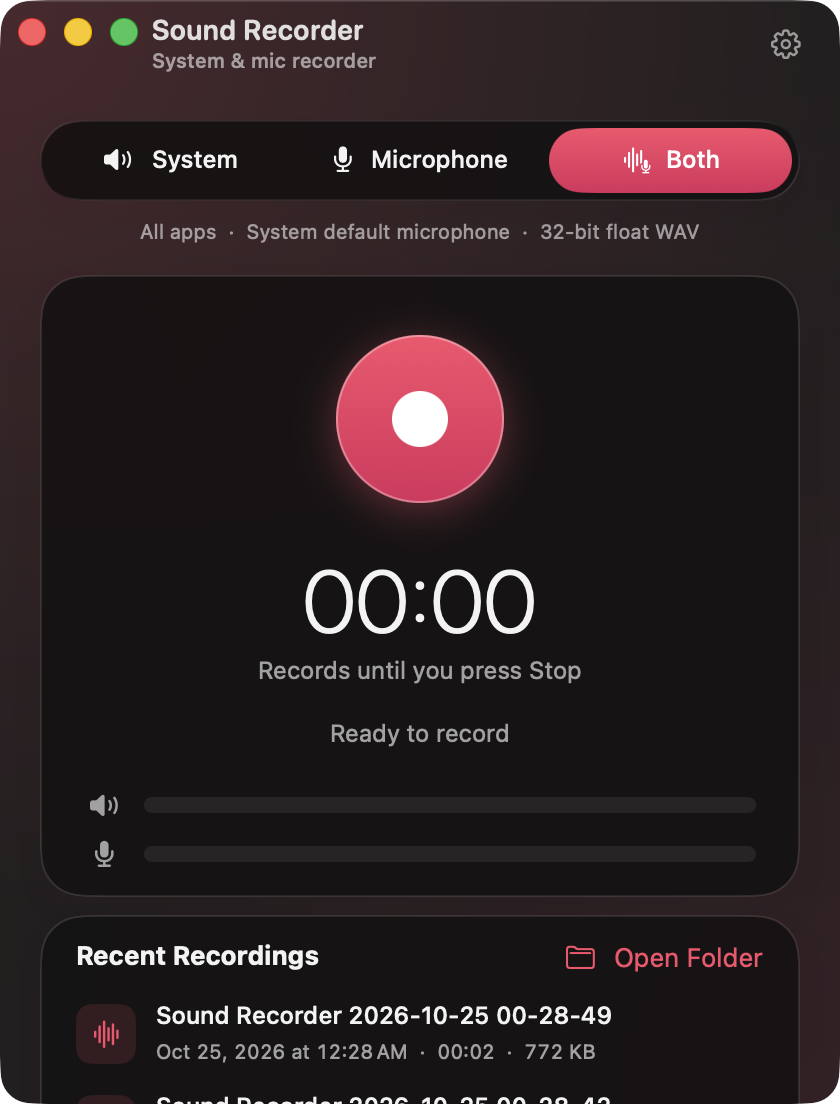
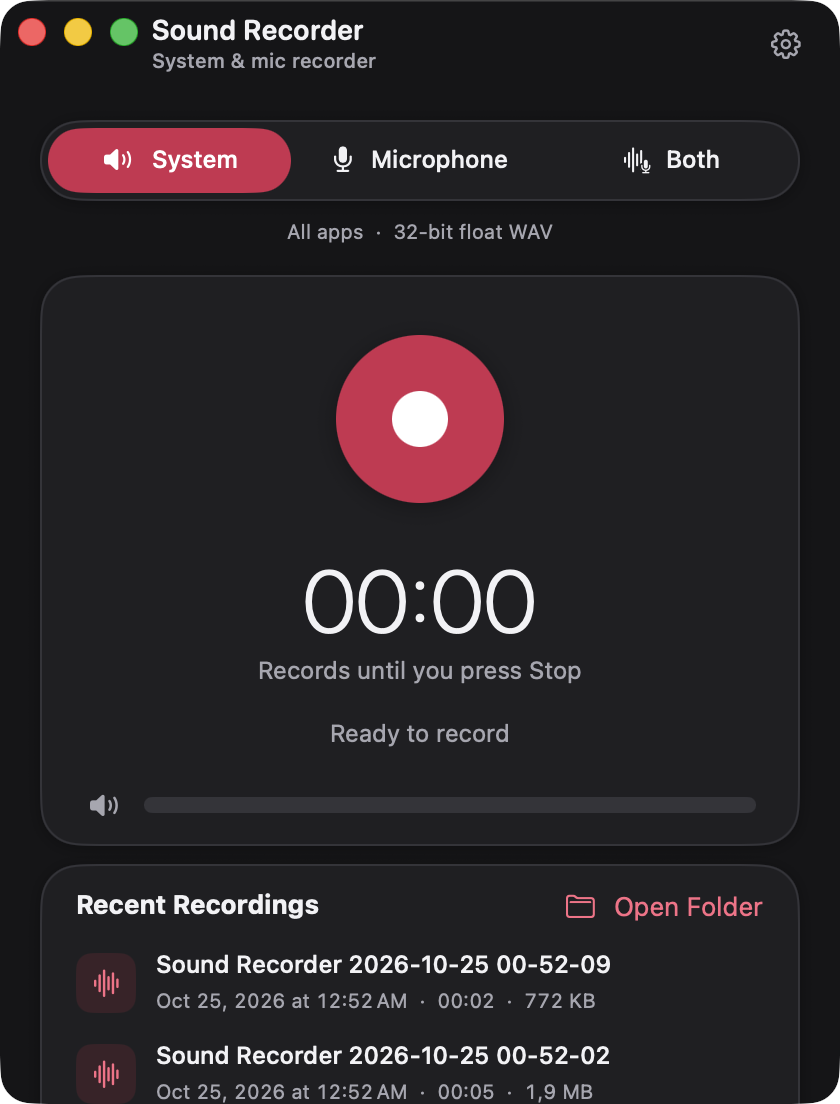
feat(appearance): add persistent themes and opaque surfaces

diff --git a/Sources/App/Style/Theme.swift b/Sources/App/Style/Theme.swift
@@ -1,17 +1,41 @@
-// The Sound Recorder look in one place: accent colors, corner radii, spacing, motion,
-// the glass card and the window backdrop. Views use these tokens instead of literals.
+// The Sound Recorder look in one place: semantic colours with light and dark values, corner radii,
+// spacing, motion and the opaque card. Views use these tokens and never literal colours.
+// Text colours meet WCAG AA on every surface they are used on (body text ≥ 4.5:1, controls ≥ 3:1).
 
+import AppKit
 import SwiftUI
 
 enum Theme {
-    static let brand = Color(red: 0.98, green: 0.30, blue: 0.42)
-    static let brandDeep = Color(red: 0.86, green: 0.16, blue: 0.36)
-    static let brandGradient = LinearGradient(colors: [brand, brandDeep], startPoint: .top, endPoint: .bottom)
-    static let meterGradient = LinearGradient(colors: [.green, .yellow, .orange, brand], startPoint: .leading, endPoint: .trailing)
-    static let warning = Color.orange
+    // Surfaces, from back to front.
+    static let background = Color(light: 0xF4F4F6, dark: 0x151517)
+    static let surface = Color(light: 0xFFFFFF, dark: 0x1F1F22)
+    static let surfaceRaised = Color(light: 0xEEEEF2, dark: 0x2A2A2E)
+    static let border = Color(light: 0xDEDEE4, dark: 0x34343A)
+    static let shadow = Color(light: 0x000000, dark: 0x000000, lightAlpha: 0.06, darkAlpha: 0.30)
+
+    // Text.
+    static let textPrimary = Color(light: 0x1C1C1F, dark: 0xF2F2F5)
+    static let textSecondary = Color(light: 0x5C5C66, dark: 0xA6A6B0)
+
+    // Accent: `accent` for text and icons, `accentFill` behind white (`onAccent`) glyphs.
+    static let accent = Color(light: 0xC42448, dark: 0xFF6B86)
+    static let accentFill = Color(light: 0xC42448, dark: 0xCF2B50)
+    static let accentSoft = Color(light: 0xFBE4E9, dark: 0x3A2228)
+    static let onAccent = Color(light: 0xFFFFFF, dark: 0xFFFFFF)
+
+    // Status.
+    static let warning = Color(light: 0x9A5800, dark: 0xFFB547)
+    static let danger = Color(light: 0xC62828, dark: 0xFF6B6B)
+
+    // Level meter: track, then low → mid → high.
+    static let meterTrack = Color(light: 0xE6E6EB, dark: 0x34343A)
+    static let meterLow = Color(light: 0x23863F, dark: 0x3FCF6E)
+    static let meterMid = Color(light: 0xB07800, dark: 0xF0B429)
+    static let meterHigh = Color(light: 0xC42448, dark: 0xFF6B86)
+    static let meterGradient = LinearGradient(colors: [meterLow, meterMid, meterHigh], startPoint: .leading, endPoint: .trailing)
 
     enum Radius {
-        static let card: CGFloat = 22
+        static let card: CGFloat = 20
         static let notice: CGFloat = 14
         static let row: CGFloat = 10
         static let badge: CGFloat = 8
@@ -24,38 +48,41 @@ enum Theme {
         static let scrollerGutter: CGFloat = 10 // room for the overlay scroller beside list rows
     }
 
+    /// Short, consistent curves; views apply them through `calmAnimation`, which honours Reduce Motion.
     enum Motion {
-        static let hover = Animation.easeOut(duration: 0.12)
-        static let notice = Animation.easeOut(duration: 0.2)
-        static let select = Animation.spring(duration: 0.3)
-        static let press = Animation.spring(duration: 0.2)
+        static let standard = Animation.easeInOut(duration: 0.2)
+        static let quick = Animation.easeOut(duration: 0.15)
     }
 }
 
 extension Color {
-    static let brand = Theme.brand
-    static let brandDeep = Theme.brandDeep
+    /// A colour that follows the window's light or dark appearance, from 0xRRGGBB values.
+    init(light: UInt32, dark: UInt32, lightAlpha: CGFloat = 1, darkAlpha: CGFloat = 1) {
+        self.init(nsColor: NSColor(name: nil) { appearance in
+            let isDark = appearance.bestMatch(from: [.aqua, .darkAqua]) == .darkAqua
+            let hex = isDark ? dark : light
+            return NSColor(srgbRed: CGFloat((hex >> 16) & 0xFF) / 255, green: CGFloat((hex >> 8) & 0xFF) / 255,
+                           blue: CGFloat(hex & 0xFF) / 255, alpha: isDark ? darkAlpha : lightAlpha)
+        })
+    }
 }
 
 extension View {
-    /// Liquid Glass on macOS 26, a material card before that.
-    @ViewBuilder func card(cornerRadius: CGFloat = Theme.Radius.card) -> some View {
-        if #available(macOS 26.0, *) {
-            glassEffect(.regular, in: RoundedRectangle(cornerRadius: cornerRadius, style: .continuous))
-        } else {
-            background(.regularMaterial, in: RoundedRectangle(cornerRadius: cornerRadius, style: .continuous))
+    /// An opaque card: surface fill, 1 px border and a very light shadow on the shape only
+    /// (not on the content, so text and icons inside cast no shadows of their own).
+    func card(cornerRadius: CGFloat = Theme.Radius.card) -> some View {
+        let shape = RoundedRectangle(cornerRadius: cornerRadius, style: .continuous)
+        return background {
+            shape.fill(Theme.surface)
+                .shadow(color: Theme.shadow, radius: 4, y: 1)
+                .overlay(shape.strokeBorder(Theme.border, lineWidth: 1))
         }
     }
 }
 
-/// Soft accent glow behind the glass, adapting to light and dark mode.
+/// Solid window background.
 struct Backdrop: View {
     var body: some View {
-        ZStack {
-            Color(nsColor: .windowBackgroundColor)
-            RadialGradient(colors: [Theme.brand.opacity(0.20), .clear], center: .topLeading, startRadius: 0, endRadius: 460)
-            RadialGradient(colors: [Theme.brandDeep.opacity(0.12), .clear], center: .bottomTrailing, startRadius: 0, endRadius: 520)
-        }
-        .ignoresSafeArea()
+        Theme.background.ignoresSafeArea()
     }
 }

diff --git a/Sources/App/Main/RecordButton.swift b/Sources/App/Main/RecordButton.swift
@@ -1,5 +1,6 @@
 // Large circular record / stop button. While recording, a ring pulses outward; it is driven by
-// the 15 Hz recording tick through LivePulse, so nothing animates at display rate.
+// the 15 Hz recording tick through LivePulse, so nothing animates at display rate, and it is not
+// shown at all under Reduce Motion.
 
 import SwiftUI
 
@@ -15,9 +16,8 @@ struct RecordButton: View {
             ZStack {
                 if recording { PulseRing(pulse: pulse) }
                 Circle()
-                    .fill(Theme.brandGradient)
-                    .shadow(color: Theme.brand.opacity(recording ? 0.55 : 0.35), radius: recording ? 18 : 10, y: 4)
-                Circle().strokeBorder(.white.opacity(0.35), lineWidth: 1)
+                    .fill(Theme.accentFill)
+                    .shadow(color: Theme.shadow, radius: 6, y: 2)
                 glyph
             }
             .frame(width: 84, height: 84)
@@ -35,22 +35,25 @@ struct RecordButton: View {
     @ViewBuilder private var glyph: some View {
         switch state {
         case .starting, .stopping:
-            ProgressView().controlSize(.small).tint(.white)
+            ProgressView().controlSize(.small).tint(Theme.onAccent)
         case .recording:
-            RoundedRectangle(cornerRadius: 6, style: .continuous).fill(.white).frame(width: 26, height: 26)
+            RoundedRectangle(cornerRadius: 6, style: .continuous).fill(Theme.onAccent).frame(width: 26, height: 26)
         case .idle:
-            Circle().fill(.white).frame(width: 28, height: 28)
+            Circle().fill(Theme.onAccent).frame(width: 28, height: 28)
         }
     }
 }
 
 private struct PulseRing: View {
     @ObservedObject var pulse: LivePulse
+    @Environment(\.accessibilityReduceMotion) private var reduceMotion
 
     var body: some View {
         let phase = pulse.phase
-        Circle()
-            .stroke(Theme.brand.opacity(0.55 * (1 - phase)), lineWidth: 3)
-            .scaleEffect(1 + 0.32 * phase)
+        if !reduceMotion {
+            Circle()
+                .stroke(Theme.accent.opacity(0.5 * (1 - phase)), lineWidth: 2)
+                .scaleEffect(1 + 0.3 * phase)
+        }
     }
 }

diff --git a/Sources/App/Model/RecorderModel.swift b/Sources/App/Model/RecorderModel.swift
@@ -12,6 +12,9 @@ final class RecorderModel: ObservableObject {
     @Published var language: AppLanguage {
         didSet { defaults.set(language.rawValue, forKey: "language"); t = Strings(language) }
     }
+    @Published var appearance: AppAppearance {
+        didSet { defaults.set(appearance.rawValue, forKey: "appearance"); appearance.apply() }
+    }
     @Published var source: CaptureSource { didSet { defaults.set(source.rawValue, forKey: "source") } }
     @Published var format: SampleFormat { didSet { defaults.set(format.rawValue, forKey: "format") } }
     @Published var limitEnabled: Bool { didSet { defaults.set(limitEnabled, forKey: "limitEnabled") } }
@@ -55,6 +58,7 @@ final class RecorderModel: ObservableObject {
         let language = AppLanguage(rawValue: defaults.string(forKey: "language") ?? "") ?? .en
         self.language = language
         t = Strings(language)
+        appearance = AppAppearance(rawValue: defaults.string(forKey: "appearance") ?? "") ?? .system
         source = CaptureSource(rawValue: defaults.string(forKey: "source") ?? "") ?? .system
         format = SampleFormat(rawValue: defaults.string(forKey: "format") ?? "") ?? .float32
         limitEnabled = defaults.bool(forKey: "limitEnabled")
@@ -192,7 +196,10 @@ final class RecorderModel: ObservableObject {
         // Instant attack, smooth release.
         levels.set(Levels(system: max(Self.meterValue(peaks.system), old.system * 0.75),
                           mic: max(Self.meterValue(peaks.mic), old.mic * 0.75)))
-        pulse.set(elapsed.truncatingRemainder(dividingBy: 1.6) / 1.6)
+        // The pulsing ring is hidden under Reduce Motion; then there is nothing to drive.
+        if !NSWorkspace.shared.accessibilityDisplayShouldReduceMotion {
+            pulse.set(elapsed.truncatingRemainder(dividingBy: 1.6) / 1.6)
+        }
         if let limit, elapsed >= limit + 0.3 { Task { await stop() } }
     }
 

diff --git a/Sources/App/Main/RecordingRow.swift b/Sources/App/Main/RecordingRow.swift
@@ -13,12 +13,12 @@ struct RecordingRow: View {
         HStack(spacing: 10) {
             Image(systemName: "waveform")
                 .font(.system(size: 13, weight: .semibold))
-                .foregroundStyle(Theme.brand)
+                .foregroundStyle(Theme.accent)
                 .frame(width: 30, height: 30)
-                .background(Theme.brand.opacity(0.14), in: RoundedRectangle(cornerRadius: Theme.Radius.badge, style: .continuous))
+                .background(Theme.accentSoft, in: RoundedRectangle(cornerRadius: Theme.Radius.badge, style: .continuous))
             VStack(alignment: .leading, spacing: 2) {
                 Text(recording.name).font(.callout.weight(.medium)).lineLimit(1).truncationMode(.middle)
-                Text(details).font(.caption.monospacedDigit()).foregroundStyle(.secondary).lineLimit(1)
+                Text(details).font(.caption.monospacedDigit()).foregroundStyle(Theme.textSecondary).lineLimit(1)
             }
             Spacer(minLength: 4)
             if hovering {
@@ -32,9 +32,9 @@ struct RecordingRow: View {
         }
         .padding(.horizontal, 6)
         .padding(.vertical, 5)
-        .background(Color.primary.opacity(hovering ? 0.06 : 0), in: RoundedRectangle(cornerRadius: Theme.Radius.row, style: .continuous))
+        .background(hovering ? Theme.surfaceRaised : Color.clear, in: RoundedRectangle(cornerRadius: Theme.Radius.row, style: .continuous))
         .contentShape(Rectangle())
-        .onHover { inside in withAnimation(Theme.Motion.hover) { hovering = inside } }
+        .onHover { inside in withCalmAnimation(Theme.Motion.quick) { hovering = inside } }
         .onTapGesture(count: 2) { model.open(recording) }
         .contextMenu {
             Button(t("recent.play")) { model.open(recording) }

diff --git a/Sources/App/Main/SourcePicker.swift b/Sources/App/Main/SourcePicker.swift
@@ -11,7 +11,7 @@ struct SourceSection: View {
                 .disabled(model.isBusy)
             Text(summary)
                 .font(.caption)
-                .foregroundStyle(.secondary)
+                .foregroundStyle(Theme.textSecondary)
                 .lineLimit(1)
                 .truncationMode(.middle)
         }
@@ -51,18 +51,18 @@ struct SourcePicker: View {
     private func segment(_ source: CaptureSource) -> some View {
         let selected = selection == source
         return Button {
-            withAnimation(Theme.Motion.select) { selection = source }
+            withCalmAnimation { selection = source }
         } label: {
             Label(t("source.\(source.rawValue)"), systemImage: source.symbol)
                 .font(.callout.weight(.medium))
                 .lineLimit(1)
                 .frame(maxWidth: .infinity)
                 .padding(.vertical, 8)
-                .foregroundStyle(selected ? Color.white : Color.primary)
+                .foregroundStyle(selected ? Theme.onAccent : Theme.textPrimary)
                 .background {
                     if selected {
                         Capsule()
-                            .fill(Theme.brandGradient)
+                            .fill(Theme.accentFill)
                             .matchedGeometryEffect(id: "selection", in: namespace)
                     }
                 }

diff --git a/Sources/App/Style/Motion.swift b/Sources/App/Style/Motion.swift
@@ -1,0 +1,26 @@
+// Animation helpers that honour System Settings → Accessibility → Display → Reduce Motion:
+// with it on, changes happen instantly instead of animating.
+
+import SwiftUI
+
+private struct CalmAnimation<Value: Equatable>: ViewModifier {
+    let animation: Animation
+    let value: Value
+    @Environment(\.accessibilityReduceMotion) private var reduceMotion
+
+    func body(content: Content) -> some View {
+        content.animation(reduceMotion ? nil : animation, value: value)
+    }
+}
+
+extension View {
+    /// Animates changes of `value` with a short theme curve, or not at all under Reduce Motion.
+    func calmAnimation<Value: Equatable>(_ animation: Animation = Theme.Motion.standard, value: Value) -> some View {
+        modifier(CalmAnimation(animation: animation, value: value))
+    }
+}
+
+/// `withAnimation` that skips the animation under Reduce Motion.
+@MainActor func withCalmAnimation(_ animation: Animation = Theme.Motion.standard, _ body: () -> Void) {
+    if NSWorkspace.shared.accessibilityDisplayShouldReduceMotion { body() } else { withAnimation(animation, body) }
+}

diff --git a/Sources/App/SoundRecorderApp.swift b/Sources/App/SoundRecorderApp.swift
@@ -13,7 +13,7 @@ struct SoundRecorderApp: App {
             ContentView()
                 .environmentObject(model)
                 .environment(\.locale, model.language.locale)
-                .tint(.brand)
+                .tint(Theme.accentFill)
         }
         .windowStyle(.hiddenTitleBar)
         .windowResizability(.contentSize)
@@ -29,13 +29,18 @@ struct SoundRecorderApp: App {
                 .environmentObject(model)
                 .environmentObject(updater)
                 .environment(\.locale, model.language.locale)
-                .tint(.brand)
+                .tint(Theme.accentFill)
         }
     }
 }
 
 final class AppDelegate: NSObject, NSApplicationDelegate {
     private var keyMonitor: Any?
+
+    /// The remembered appearance applies before any window appears.
+    func applicationWillFinishLaunching(_ notification: Notification) {
+        MainActor.assumeIsolated { RecorderModel.shared.appearance.apply() }
+    }
 
     func applicationDidFinishLaunching(_ notification: Notification) {
         // Holding ⌘R must not start and stop recordings over and over.

diff --git a/Sources/App/Settings/GeneralSettingsSection.swift b/Sources/App/Settings/GeneralSettingsSection.swift
@@ -12,12 +12,17 @@ struct GeneralSettingsSection: View {
                 ForEach(AppLanguage.allCases) { Text($0.displayName).tag($0) }
             }
             .pointerCursor()
+            Picker(t("settings.appearance"), selection: $model.appearance) {
+                ForEach(AppAppearance.allCases) { Text(t("appearance.\($0.rawValue)")).tag($0) }
+            }
+            .pickerStyle(.segmented)
+            .pointerCursor()
             LabeledContent(t("settings.folder")) {
                 HStack(spacing: 8) {
                     Text((model.outputFolder.path as NSString).abbreviatingWithTildeInPath)
                         .lineLimit(1)
                         .truncationMode(.middle)
-                        .foregroundStyle(.secondary)
+                        .foregroundStyle(Theme.textSecondary)
                         .help(model.outputFolder.path)
                     Button(t("settings.folder.choose")) { model.chooseFolder() }
                         .pointerCursor()

diff --git a/Sources/App/Main/NoticeBanner.swift b/Sources/App/Main/NoticeBanner.swift
@@ -19,7 +19,7 @@ struct NoticeBanner: View {
                 .frame(width: 20)
             VStack(alignment: .leading, spacing: 2) {
                 Text(title).font(.callout.weight(.semibold)).lineLimit(1)
-                Text(message).font(.caption).foregroundStyle(.secondary).lineLimit(4)
+                Text(message).font(.caption).foregroundStyle(Theme.textSecondary).lineLimit(4)
                     .fixedSize(horizontal: false, vertical: true)
             }
             Spacer(minLength: 4)
@@ -30,7 +30,7 @@ struct NoticeBanner: View {
                     .pointerCursor()
             }
             IconButton(systemImage: "xmark", label: dismissLabel, size: 10, weight: .bold, frame: 18, action: onDismiss)
-                .foregroundStyle(.secondary)
+                .foregroundStyle(Theme.textSecondary)
         }
         .padding(.horizontal, 12)
         .padding(.vertical, 9)

diff --git a/Sources/App/Settings/UpdateSettingsSection.swift b/Sources/App/Settings/UpdateSettingsSection.swift
@@ -18,7 +18,7 @@ struct UpdateSettingsSection: View {
                 HStack(spacing: 8) {
                     Text(updater.version)
                         .monospacedDigit()
-                        .foregroundStyle(.secondary)
+                        .foregroundStyle(Theme.textSecondary)
                         .textSelection(.enabled)
                     Button(t("update.check")) { updater.checkForUpdates() }
                         .pointerCursor()
@@ -30,7 +30,8 @@ struct UpdateSettingsSection: View {
         } footer: {
             Text(updater.postponedVersion.map { t("settings.updates.postponed", $0) } ?? t("settings.updates.footer"))
                 .font(.caption)
-                .foregroundStyle(.secondary)
+                .lineLimit(2, reservesSpace: true)  // same height whatever the message
+                .foregroundStyle(Theme.textSecondary)
         }
     }
 }

diff --git a/Sources/App/Main/HeaderBar.swift b/Sources/App/Main/HeaderBar.swift
@@ -12,7 +12,7 @@ struct HeaderBar: View {
                     .font(.system(size: 14, weight: .semibold, design: .rounded))
                 Text(model.t("app.subtitle"))
                     .font(.caption2)
-                    .foregroundStyle(.secondary)
+                    .foregroundStyle(Theme.textSecondary)
             }
             Spacer()
             SettingsLink {
@@ -23,7 +23,7 @@ struct HeaderBar: View {
             }
             .buttonStyle(.plain)
             .pointerCursor()
-            .foregroundStyle(.secondary)
+            .foregroundStyle(Theme.textSecondary)
             .help(model.t("settings.open"))
             .accessibilityLabel(model.t("settings.open"))
         }

diff --git a/Sources/App/Main/LevelMeter.swift b/Sources/App/Main/LevelMeter.swift
@@ -28,11 +28,11 @@ struct LevelMeter: View {
         HStack(spacing: 10) {
             Image(systemName: icon)
                 .font(.system(size: 12, weight: .semibold))
-                .foregroundStyle(.secondary)
+                .foregroundStyle(Theme.textSecondary)
                 .frame(width: 20)
             GeometryReader { geo in
                 ZStack(alignment: .leading) {
-                    Capsule().fill(Color.primary.opacity(0.08))
+                    Capsule().fill(Theme.meterTrack)
                     Capsule()
                         .fill(Theme.meterGradient)
                         .mask(alignment: .leading) {
